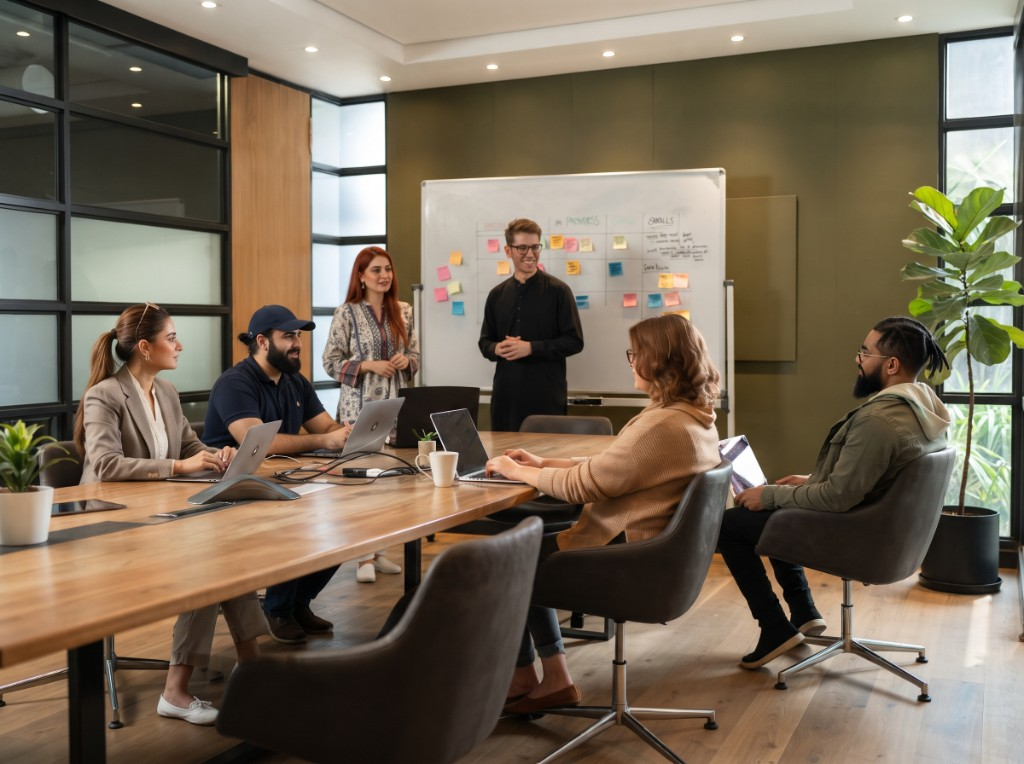
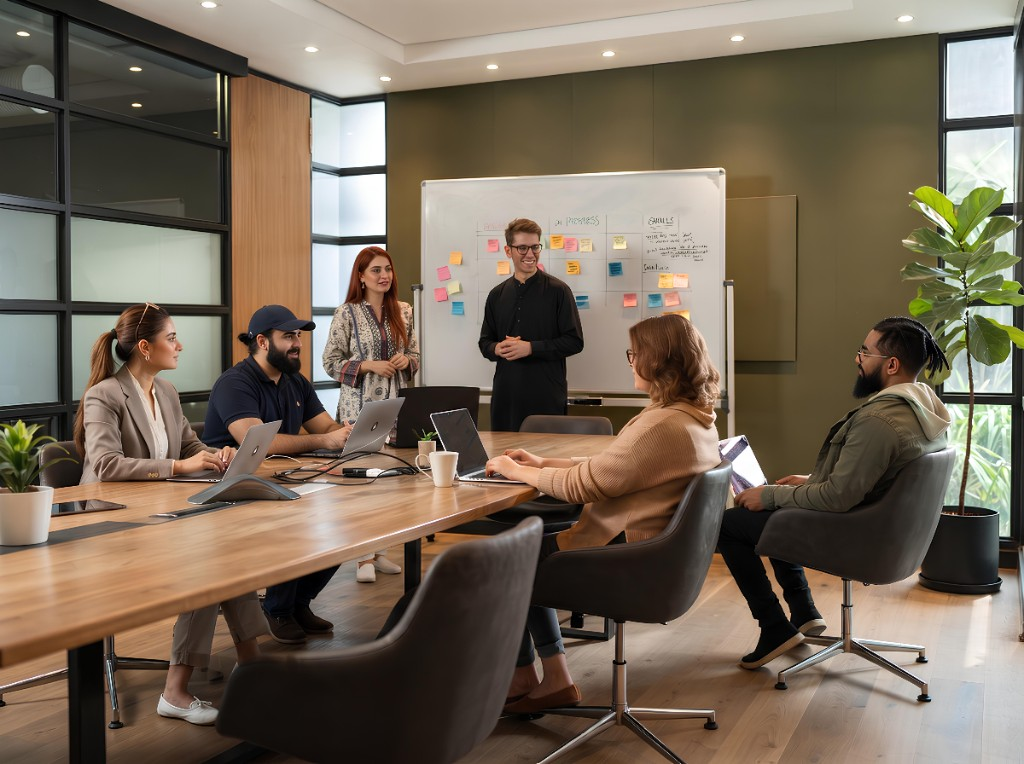
Update hero image on Life page to the latest version and increment version query parameter for cache management.

diff --git a/src/app/life/page.tsx b/src/app/life/page.tsx
@@ -23,7 +23,7 @@ export default function LifePage() {
         eyebrow="Life at Comtanix"
         title="Grow Through Work. Thrive Together."
         description="Our teams share the milestones, the achievements, and the culture that make Comtanix more than a place to work."
-        image="/life/hero-team.png?v=4"
+        image="/life/hero-team.png?v=5"
         imageAlt="Comtanix team collaborating in the office"
         imageFit="cover"
         imagePosition="faces"
